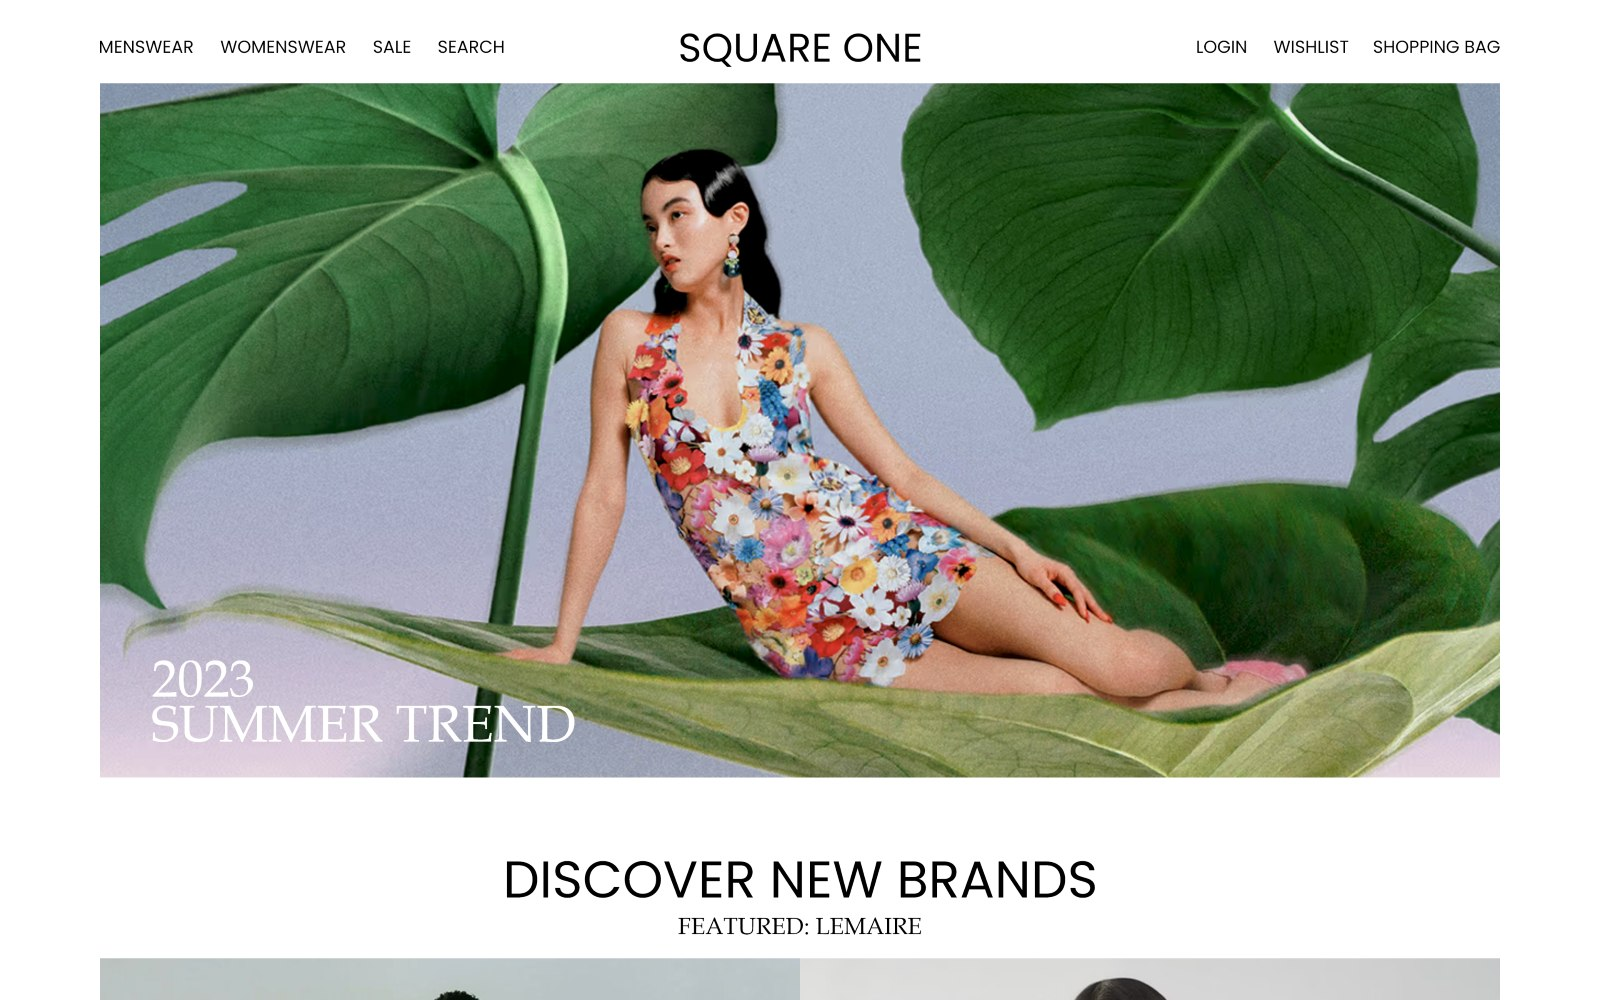
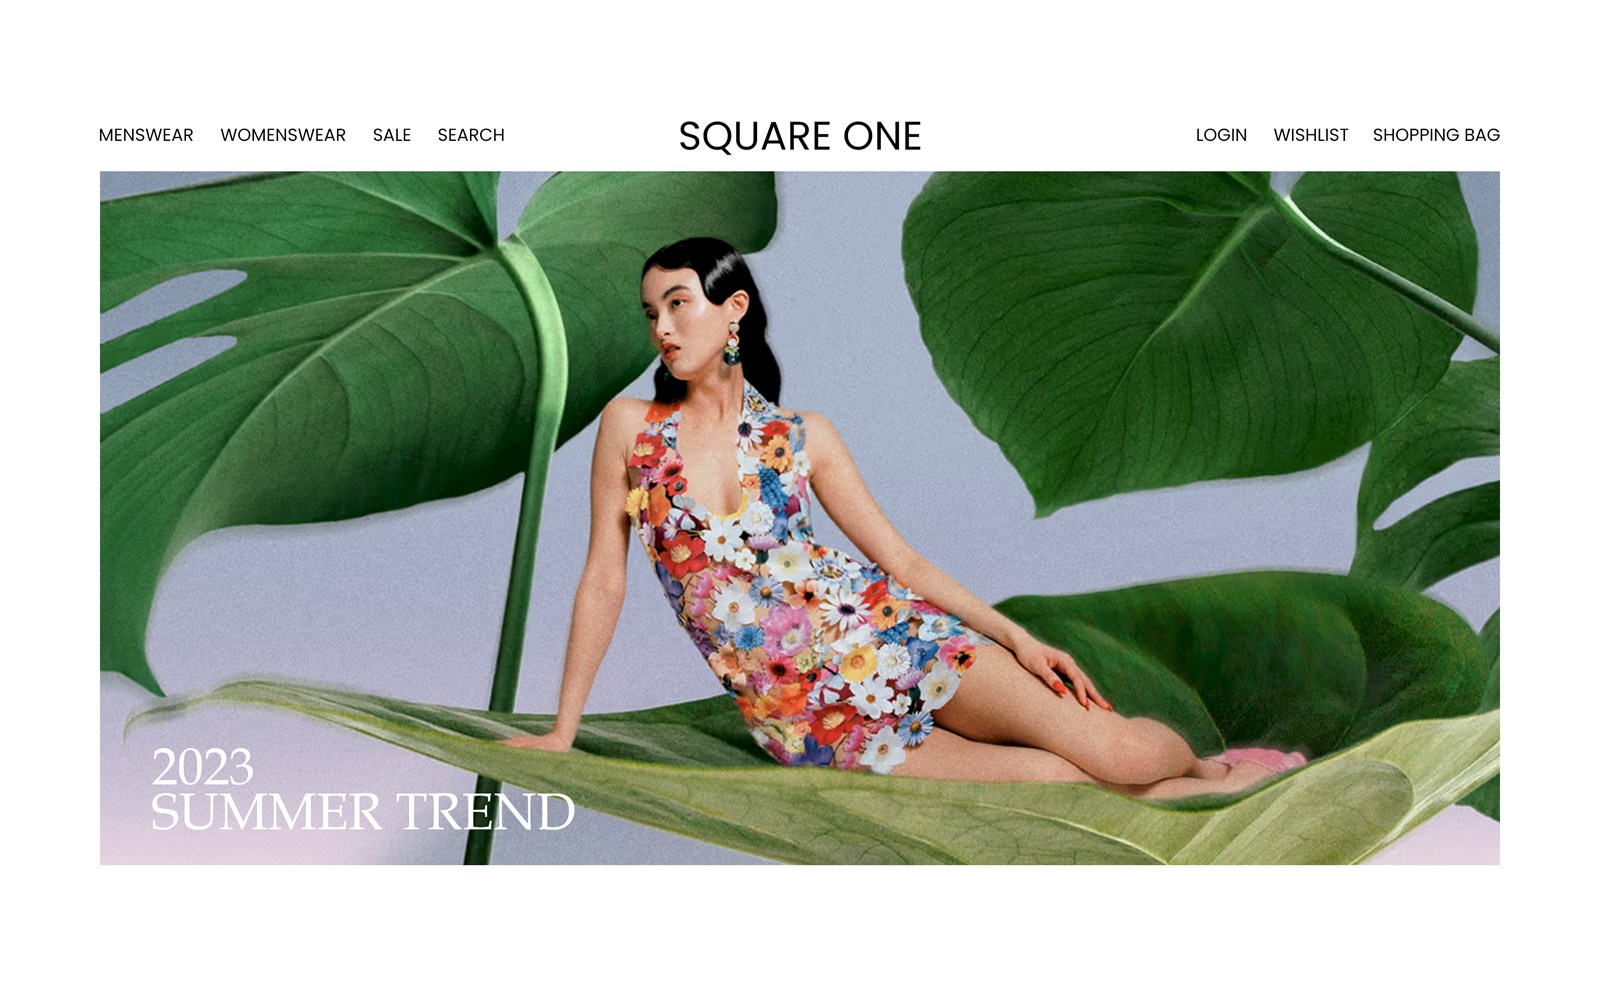
Re-cut SquareOne slides so each shows one whole page section
Eleven slides from the full-page designs instead of ten fixed slices that split photos and headings.

diff --git a/assets/media.js b/assets/media.js
@@ -1,6 +1,6 @@
 /* GENERATED by the media pipeline: covers, images [src, width, height] and video clips per project id. */
 window.MEDIA = {
-  'squareone': { cover: 'images/squareone/01.jpg', coverRatio: '1600 / 1000', images: [['images/squareone/01.jpg', 1600, 1000], ['images/squareone/02.jpg', 1600, 1000], ['images/squareone/03.jpg', 1600, 1000], ['images/squareone/04.jpg', 1600, 1000], ['images/squareone/05.jpg', 1600, 1000], ['images/squareone/06.jpg', 1600, 1000], ['images/squareone/07.jpg', 1600, 1000], ['images/squareone/08.jpg', 1600, 1000], ['images/squareone/09.jpg', 1600, 1000], ['images/squareone/10.jpg', 1600, 1000]] },
+  'squareone': { cover: 'images/squareone/01.jpg', coverRatio: '1600 / 1000', images: [['images/squareone/01.jpg', 1600, 1000], ['images/squareone/02.jpg', 1600, 1000], ['images/squareone/03.jpg', 1600, 1000], ['images/squareone/04.jpg', 1600, 1000], ['images/squareone/05.jpg', 1600, 1000], ['images/squareone/06.jpg', 1600, 1000], ['images/squareone/07.jpg', 1600, 1000], ['images/squareone/08.jpg', 1600, 1000], ['images/squareone/09.jpg', 1600, 1000], ['images/squareone/10.jpg', 1600, 1000], ['images/squareone/11.jpg', 1600, 1000]] },
   'woobofood': { cover: 'images/woobofood/01.jpg', coverRatio: '1440 / 900', images: [['images/woobofood/01.jpg', 1440, 900], ['images/woobofood/02.jpg', 1440, 900], ['images/woobofood/03.jpg', 1440, 900], ['images/woobofood/04.jpg', 1440, 900], ['images/woobofood/05.jpg', 1440, 900], ['images/woobofood/06.jpg', 1440, 900], ['images/woobofood/07.jpg', 1440, 900], ['images/woobofood/08.jpg', 1440, 900]] },
   'soundtrack': { cover: 'images/covers/soundtrack.png', coverRatio: '2000 / 1125', images: [['images/soundtrack/01.png', 2000, 1125], ['images/soundtrack/02.png', 2000, 1125], ['images/soundtrack/03.png', 2000, 1125], ['images/soundtrack/04.png', 2000, 1125], ['images/soundtrack/05.png', 2000, 1125], ['images/soundtrack/06.jpg', 1024, 576], ['images/soundtrack/07.jpg', 1175, 1600], ['images/soundtrack/08.jpg', 1600, 900], ['images/soundtrack/sb-1.jpg', 1600, 900], ['images/soundtrack/sb-2.jpg', 1600, 900], ['images/soundtrack/sb-3.jpg', 1600, 900], ['images/soundtrack/12.jpg', 1920, 1080], ['images/soundtrack/13.jpg', 1920, 1080], ['images/soundtrack/14.jpg', 1920, 1081]] },
   'label-lunacy': { cover: 'images/covers/label-lunacy.jpg', coverRatio: '1280 / 720', images: [['images/label-lunacy/01.jpg', 1230, 560], ['images/label-lunacy/02.jpg', 1375, 626], ['images/label-lunacy/03.jpg', 928, 500], ['images/label-lunacy/04.jpg', 1532, 829], ['images/label-lunacy/05.jpg', 1920, 1080], ['images/label-lunacy/06.jpg', 1920, 1080], ['images/label-lunacy/07.jpg', 1920, 1080], ['images/label-lunacy/08.jpg', 1920, 1080], ['images/label-lunacy/09.jpg', 1920, 1080], ['images/label-lunacy/10.jpg', 1920, 1080], ['images/label-lunacy/11.jpg', 1920, 1080], ['images/label-lunacy/12.jpg', 1920, 1080]] },

diff --git a/index.html b/index.html
@@ -19,19 +19,19 @@
 <meta name="theme-color" content="#0B0D10" data-theme-meta>
 <link rel="icon" href="favicon.ico" sizes="48x48">
 <link rel="icon" href="favicon-32.png" type="image/png" sizes="32x32">
-<link rel="icon" href="assets/logo.svg?v=202611212203" type="image/svg+xml">
+<link rel="icon" href="assets/logo.svg?v=202611212214" type="image/svg+xml">
 <link rel="apple-touch-icon" href="apple-touch-icon.png">
 <link rel="preconnect" href="https://fonts.googleapis.com">
 <link rel="preconnect" href="https://fonts.gstatic.com" crossorigin>
 <link href="https://fonts.googleapis.com/css2?family=Unbounded:wght@800;900&family=Manrope:wght@400;500;700;800&family=Martian+Mono:wght@400;500&display=swap" rel="stylesheet">
-<link rel="stylesheet" href="assets/style.css?v=202611212203">
+<link rel="stylesheet" href="assets/style.css?v=202611212214">
 </head>
 <body>
 <div class="es">
 <a class="es-skip" href="#main">Skip to content</a>
 <header class="es-header">
   <div class="es-wrap es-header__row">
-    <a class="es-logo" href="./" aria-label="Eva Song, home"><img src="assets/logo.svg?v=202611212203" alt="Eva Song logo" width="36" height="46"></a>
+    <a class="es-logo" href="./" aria-label="Eva Song, home"><img src="assets/logo.svg?v=202611212214" alt="Eva Song logo" width="36" height="46"></a>
     <div class="es-header__right">
       <nav class="es-nav" aria-label="Main">
       <a href="./#work"><span>[W]</span> Work</a>
@@ -77,7 +77,7 @@
     </div>
   </nav>
 
-  <!-- 01 SEASON PASS (WORK): tiles are built from assets/data.js?v=202611212203 -->
+  <!-- 01 SEASON PASS (WORK): tiles are built from assets/data.js?v=202611212214 -->
   <section class="es-section es-pass" id="work" aria-label="Season pass">
     <div class="es-wrap es-headrow">
       <div>
@@ -194,9 +194,9 @@
 
 </main>
 </div>
-<script src="assets/media.js?v=202611212203"></script>
-<script src="assets/data.js?v=202611212203"></script>
-<script src="assets/main.js?v=202611212203"></script>
+<script src="assets/media.js?v=202611212214"></script>
+<script src="assets/data.js?v=202611212214"></script>
+<script src="assets/main.js?v=202611212214"></script>
 <!-- visitor stats: https://evasong.goatcounter.com (no cookies) -->
 <script data-goatcounter="https://evasong.goatcounter.com/count" async src="//gc.zgo.at/count.js"></script>
 </body>

diff --git a/project.html b/project.html
@@ -18,19 +18,19 @@
 <meta name="theme-color" content="#0B0D10" data-theme-meta>
 <link rel="icon" href="favicon.ico" sizes="48x48">
 <link rel="icon" href="favicon-32.png" type="image/png" sizes="32x32">
-<link rel="icon" href="assets/logo.svg?v=202611212203" type="image/svg+xml">
+<link rel="icon" href="assets/logo.svg?v=202611212214" type="image/svg+xml">
 <link rel="apple-touch-icon" href="apple-touch-icon.png">
 <link rel="preconnect" href="https://fonts.googleapis.com">
 <link rel="preconnect" href="https://fonts.gstatic.com" crossorigin>
 <link href="https://fonts.googleapis.com/css2?family=Unbounded:wght@800;900&family=Manrope:wght@400;500;700;800&family=Martian+Mono:wght@400;500&display=swap" rel="stylesheet">
-<link rel="stylesheet" href="assets/style.css?v=202611212203">
+<link rel="stylesheet" href="assets/style.css?v=202611212214">
 </head>
 <body>
 <div class="es">
 <a class="es-skip" href="#main">Skip to content</a>
 <header class="es-header">
   <div class="es-wrap es-header__row">
-    <a class="es-logo" href="./" aria-label="Eva Song, home"><img src="assets/logo.svg?v=202611212203" alt="Eva Song logo" width="36" height="46"></a>
+    <a class="es-logo" href="./" aria-label="Eva Song, home"><img src="assets/logo.svg?v=202611212214" alt="Eva Song logo" width="36" height="46"></a>
     <div class="es-header__right">
       <nav class="es-nav" aria-label="Main">
       <a href="./#work" aria-current="page"><span>[W]</span> Work</a>
@@ -50,9 +50,9 @@
   <nav aria-label="Social"><a data-link="email" href="#">Email</a><a data-link="linkedin" href="#">LinkedIn</a><a data-link="instagram" href="#">Instagram</a><a data-link="resume" href="#">R&eacute;sum&eacute;</a></nav>
 </div></div></footer></main>
 </div>
-<script src="assets/media.js?v=202611212203"></script>
-<script src="assets/data.js?v=202611212203"></script>
-<script src="assets/main.js?v=202611212203"></script>
+<script src="assets/media.js?v=202611212214"></script>
+<script src="assets/data.js?v=202611212214"></script>
+<script src="assets/main.js?v=202611212214"></script>
 <!-- visitor stats: https://evasong.goatcounter.com (no cookies) -->
 <script data-goatcounter="https://evasong.goatcounter.com/count" async src="//gc.zgo.at/count.js"></script>
 </body>

diff --git a/history.html b/history.html
@@ -18,19 +18,19 @@
 <meta name="theme-color" content="#0B0D10" data-theme-meta>
 <link rel="icon" href="favicon.ico" sizes="48x48">
 <link rel="icon" href="favicon-32.png" type="image/png" sizes="32x32">
-<link rel="icon" href="assets/logo.svg?v=202611212203" type="image/svg+xml">
+<link rel="icon" href="assets/logo.svg?v=202611212214" type="image/svg+xml">
 <link rel="apple-touch-icon" href="apple-touch-icon.png">
 <link rel="preconnect" href="https://fonts.googleapis.com">
 <link rel="preconnect" href="https://fonts.gstatic.com" crossorigin>
 <link href="https://fonts.googleapis.com/css2?family=Unbounded:wght@800;900&family=Manrope:wght@400;500;700;800&family=Martian+Mono:wght@400;500&display=swap" rel="stylesheet">
-<link rel="stylesheet" href="assets/style.css?v=202611212203">
+<link rel="stylesheet" href="assets/style.css?v=202611212214">
 </head>
 <body>
 <div class="es">
 <a class="es-skip" href="#main">Skip to content</a>
 <header class="es-header">
   <div class="es-wrap es-header__row">
-    <a class="es-logo" href="./" aria-label="Eva Song, home"><img src="assets/logo.svg?v=202611212203" alt="Eva Song logo" width="36" height="46"></a>
+    <a class="es-logo" href="./" aria-label="Eva Song, home"><img src="assets/logo.svg?v=202611212214" alt="Eva Song logo" width="36" height="46"></a>
     <div class="es-header__right">
       <nav class="es-nav" aria-label="Main">
       <a href="./#work"><span>[W]</span> Work</a>
@@ -218,9 +218,9 @@
 </main>
 
 </div>
-<script src="assets/media.js?v=202611212203"></script>
-<script src="assets/data.js?v=202611212203"></script>
-<script src="assets/main.js?v=202611212203"></script>
+<script src="assets/media.js?v=202611212214"></script>
+<script src="assets/data.js?v=202611212214"></script>
+<script src="assets/main.js?v=202611212214"></script>
 <!-- visitor stats: https://evasong.goatcounter.com (no cookies) -->
 <script data-goatcounter="https://evasong.goatcounter.com/count" async src="//gc.zgo.at/count.js"></script>
 </body>

diff --git a/play.html b/play.html
@@ -18,19 +18,19 @@
 <meta name="theme-color" content="#0B0D10" data-theme-meta>
 <link rel="icon" href="favicon.ico" sizes="48x48">
 <link rel="icon" href="favicon-32.png" type="image/png" sizes="32x32">
-<link rel="icon" href="assets/logo.svg?v=202611212203" type="image/svg+xml">
+<link rel="icon" href="assets/logo.svg?v=202611212214" type="image/svg+xml">
 <link rel="apple-touch-icon" href="apple-touch-icon.png">
 <link rel="preconnect" href="https://fonts.googleapis.com">
 <link rel="preconnect" href="https://fonts.gstatic.com" crossorigin>
 <link href="https://fonts.googleapis.com/css2?family=Unbounded:wght@800;900&family=Manrope:wght@400;500;700;800&family=Martian+Mono:wght@400;500&display=swap" rel="stylesheet">
-<link rel="stylesheet" href="assets/style.css?v=202611212203">
+<link rel="stylesheet" href="assets/style.css?v=202611212214">
 </head>
 <body>
 <div class="es">
 <a class="es-skip" href="#main">Skip to content</a>
 <header class="es-header">
   <div class="es-wrap es-header__row">
-    <a class="es-logo" href="./" aria-label="Eva Song, home"><img src="assets/logo.svg?v=202611212203" alt="Eva Song logo" width="36" height="46"></a>
+    <a class="es-logo" href="./" aria-label="Eva Song, home"><img src="assets/logo.svg?v=202611212214" alt="Eva Song logo" width="36" height="46"></a>
     <div class="es-header__right">
       <nav class="es-nav" aria-label="Main">
       <a href="./#work"><span>[W]</span> Work</a>
@@ -101,9 +101,9 @@
 </main>
 
 </div>
-<script src="assets/media.js?v=202611212203"></script>
-<script src="assets/data.js?v=202611212203"></script>
-<script src="assets/main.js?v=202611212203"></script>
+<script src="assets/media.js?v=202611212214"></script>
+<script src="assets/data.js?v=202611212214"></script>
+<script src="assets/main.js?v=202611212214"></script>
 <!-- visitor stats: https://evasong.goatcounter.com (no cookies) -->
 <script data-goatcounter="https://evasong.goatcounter.com/count" async src="//gc.zgo.at/count.js"></script>
 </body>

diff --git a/404.html b/404.html
@@ -19,19 +19,19 @@
 <meta name="theme-color" content="#0B0D10" data-theme-meta>
 <link rel="icon" href="favicon.ico" sizes="48x48">
 <link rel="icon" href="favicon-32.png" type="image/png" sizes="32x32">
-<link rel="icon" href="assets/logo.svg?v=202611212203" type="image/svg+xml">
+<link rel="icon" href="assets/logo.svg?v=202611212214" type="image/svg+xml">
 <link rel="apple-touch-icon" href="apple-touch-icon.png">
 <link rel="preconnect" href="https://fonts.googleapis.com">
 <link rel="preconnect" href="https://fonts.gstatic.com" crossorigin>
 <link href="https://fonts.googleapis.com/css2?family=Unbounded:wght@800;900&family=Manrope:wght@400;500;700;800&family=Martian+Mono:wght@400;500&display=swap" rel="stylesheet">
-<link rel="stylesheet" href="assets/style.css?v=202611212203">
+<link rel="stylesheet" href="assets/style.css?v=202611212214">
 </head>
 <body>
 <div class="es">
 <a class="es-skip" href="#main">Skip to content</a>
 <header class="es-header">
   <div class="es-wrap es-header__row">
-    <a class="es-logo" href="/" aria-label="Eva Song, home"><img src="assets/logo.svg?v=202611212203" alt="Eva Song logo" width="36" height="46"></a>
+    <a class="es-logo" href="/" aria-label="Eva Song, home"><img src="assets/logo.svg?v=202611212214" alt="Eva Song logo" width="36" height="46"></a>
     <div class="es-header__right">
       <nav class="es-nav" aria-label="Main">
       <a href="/#work"><span>[W]</span> Work</a>
@@ -53,9 +53,9 @@
 </main>
 
 </div>
-<script src="assets/media.js?v=202611212203"></script>
-<script src="assets/data.js?v=202611212203"></script>
-<script src="assets/main.js?v=202611212203"></script>
+<script src="assets/media.js?v=202611212214"></script>
+<script src="assets/data.js?v=202611212214"></script>
+<script src="assets/main.js?v=202611212214"></script>
 <!-- visitor stats: https://evasong.goatcounter.com (no cookies) -->
 <script data-goatcounter="https://evasong.goatcounter.com/count" async src="//gc.zgo.at/count.js"></script>
 </body>

diff --git a/assets/data.js b/assets/data.js
@@ -366,7 +366,7 @@ window.STORIES = [
   { id: 'akkurat', title: 'Akkurat type specimen', type: 'Graphic design', text: 'A type specimen for LL Akkurat: its history, weights and glyphs, told across seven spreads.', tools: ['InDesign', 'Illustrator'], start: 4 },
   { id: 'eve-arnold', title: 'Eve Arnold', type: 'Editorial', text: 'Book spreads for a Great Photographer Series volume on photographer Eve Arnold.', tools: ['InDesign'], start: 4 },
   { id: 'metamorphosis', title: 'Riot Games: Metamorphosis', type: 'Digital art', text: 'Illustrated frames of light, hands and transformation, ending on a Riot Games reveal.', tools: ['Procreate', 'Photoshop'], start: 2 },
-  { id: 'squareone', title: 'SquareOne', type: 'Web design', text: 'A fashion resale marketplace: the homepage, menswear and womenswear shops, and the page that invites people to sell.', tools: ['Adobe XD', 'Illustrator'], start: 5 },
+  { id: 'squareone', title: 'SquareOne', type: 'Web design', text: 'A fashion resale marketplace: the homepage, menswear and womenswear shops, and the page that invites people to sell.', tools: ['Adobe XD', 'Illustrator'], start: 6 },
   { id: 'woobofood', title: 'Woobofood, Bullbop', type: 'Web design', text: 'Websites for Woobofood, an international Korean food company, its brands Purunchon, Lechi and Ocean Snack, and Bullbop, its Korean BBQ food truck.', tools: ['Wix', 'Illustrator'], start: 1 }
 ];
 
